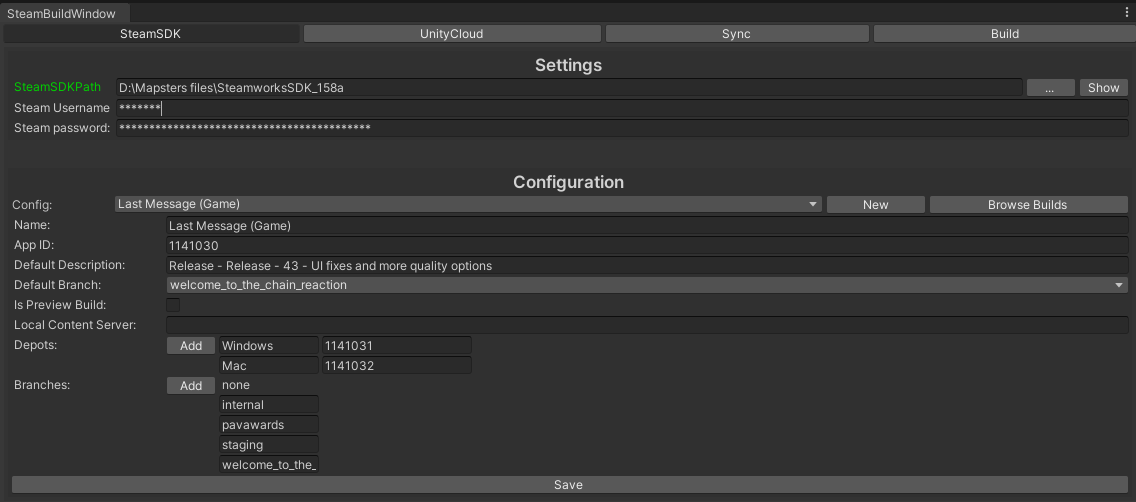
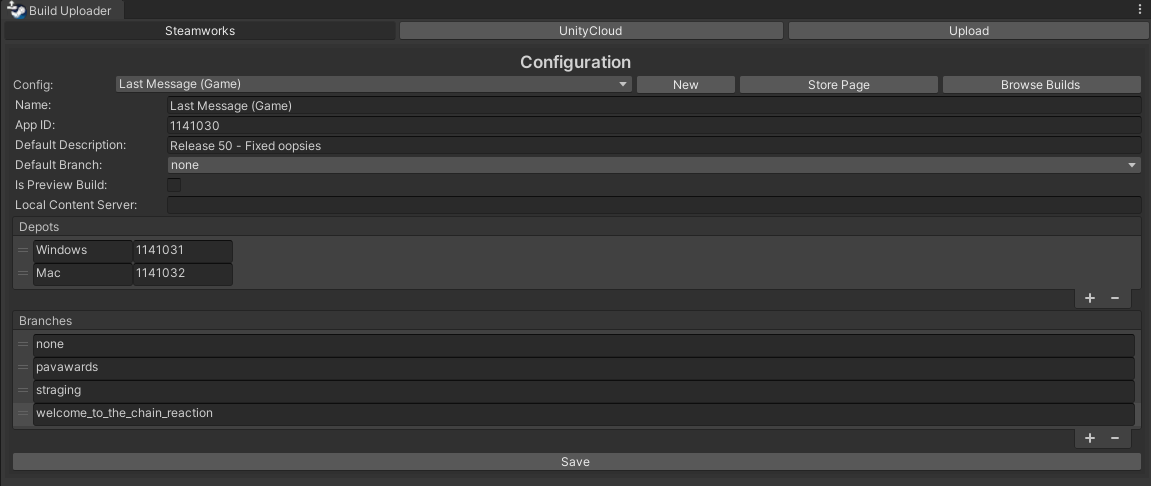
Updated readme for git

diff --git a/README.md b/README.md
@@ -5,13 +5,15 @@ This package is designed to help automate the process of uploading builds to Ste
 
 ## Setup
 - Add the package to your project in package manager using giturl `https://github.com/JamesVeug/UnitySteamBuildUploader.git`
-- Add the `newtonsoft package` to your project https://github.com/applejag/Newtonsoft.Json-for-Unity/wiki/Install-official-via-UPM
-- Go to the SteamSDK tab and setup your game
+- Ensure newtonsoft package has installed
+  - **If not**: Add the `newtonsoft package` to your project https://github.com/applejag/Newtonsoft.Json-for-Unity/wiki/Install-official-via-UPM
+- Go to `Edit->Preferences->Steam Build Uploader` and enter your credentials.
+- Open the Steam Build Uploader window to begin setting up and uploading builds `Window->Steam Build Uploader`
 
 
 
 
-## SteamSDK Tab
+## Steamworks Tab
 ![Alt Text](https://raw.githubusercontent.com/JamesVeug/UnitySteamBuildUploader/main/Git_SteamSDKPic.png)
 
 Utilize the SteamSDK to connect to steam. Setup your individual games with the repos and branches you want to upload to.
@@ -28,13 +30,13 @@ Utilize Unity Cloud to automate make builds of your project.
 - Download builds
 
 
-## Sync Tab
+## Upload Tab
 ![Alt Text](https://github.com/JamesVeug/UnitySteamBuildUploader/blob/main/Git_SyncTabPic.png?raw=true)
 
 Specify where you want builds to come from adn where you want them to go.
 - You can specify a file on your computer or choose from your UnityCloud builds.
 - Choose where you want the build to go (Steam depot & branch)
 - Set a description to appear on steam
-- Click Downlaod and Upload all
+- Click Download and Upload all
 
-**NOTE: You can not upload to the default branch (default branch everyone uses). This is on purpose to avoid uploading the wrong build. Also the SKD does not allow this.**
+**NOTE: You can not upload to the default branch (default branch everyone uses). This is on purpose to avoid uploading the wrong build. Also the SDD does not allow this.**
